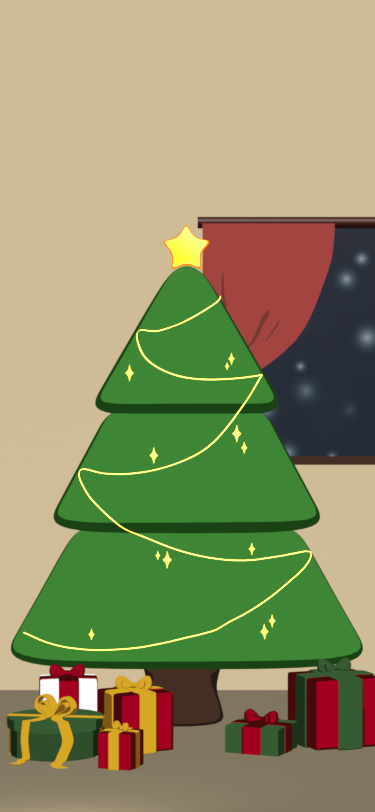
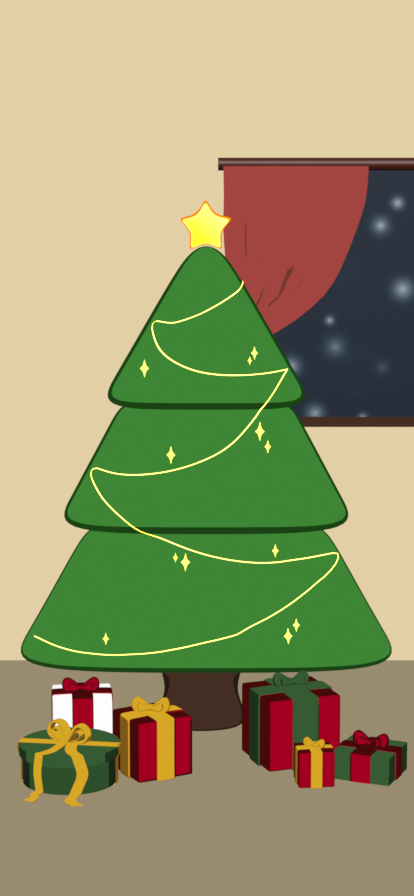
style: 오브젝트 크기 조절 (#20)

diff --git a/src/app/tree/components/sheets/DecorationBottomSheet.tsx b/src/app/tree/components/sheets/DecorationBottomSheet.tsx
@@ -10,9 +10,9 @@ export const DECO_LIST: {
   label: string;
   src: string;
 }[] = [
-  { type: 'sock', label: '양말', src: '/images/Socks01_small.png' },
-  { type: 'circle', label: '볼', src: '/images/Ornament_Yellow_small.png' },
-  { type: 'candy', label: '사탕', src: '/images/candycane_v01.png' },
+  { type: 'sock', label: '양말', src: '/images/Socks01.png' },
+  { type: 'circle', label: '볼', src: '/images/Ornament_Yellow.png' },
+  { type: 'candy', label: '사탕', src: '/images/Candycane.png' },
 ];
 
 interface DecorationBottomSheetProps {
@@ -49,7 +49,7 @@ export default function DecorationBottomSheet({ open, onClose, onPick }: Decorat
                 onClick={() => onPick(d)}
                 className="aspect-square bg-gray-50 hover:bg-gray-100 rounded-2xl flex flex-col items-center justify-center transition"
               >
-                <Image src={d.src} alt={d.label} width={100} height={100} className="object-contain" priority={false} />
+                <Image src={d.src} alt={d.label} width={3000} height={3000} className="object-contain" priority={false} />
                 <div className="text-xs mt-1 text-gray-700">{d.label}</div>
               </button>
             ))}
